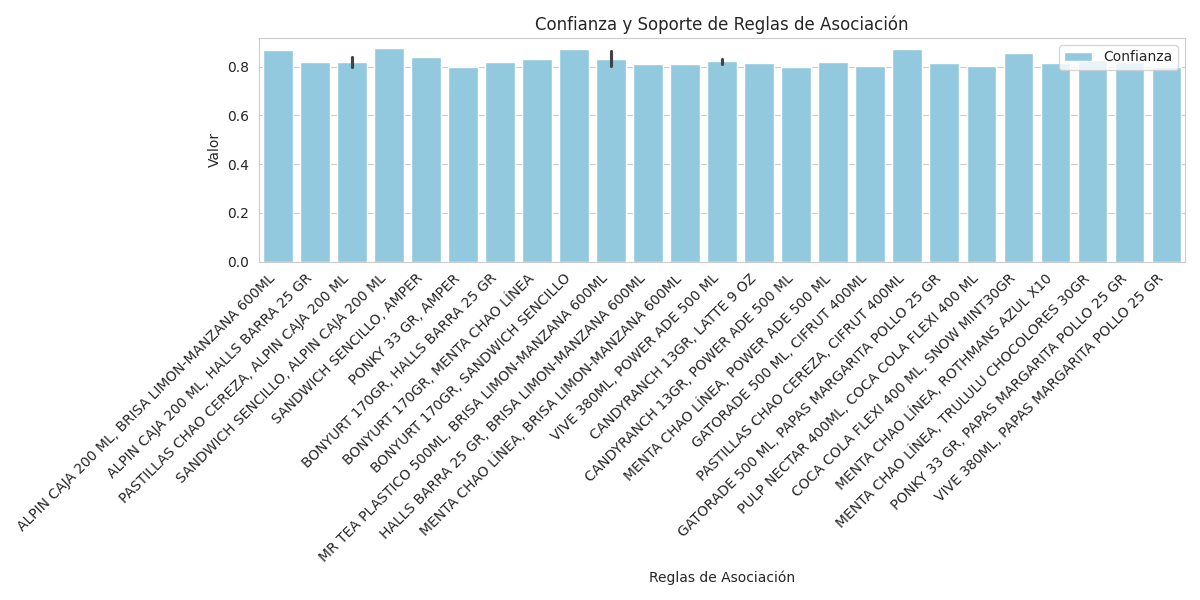
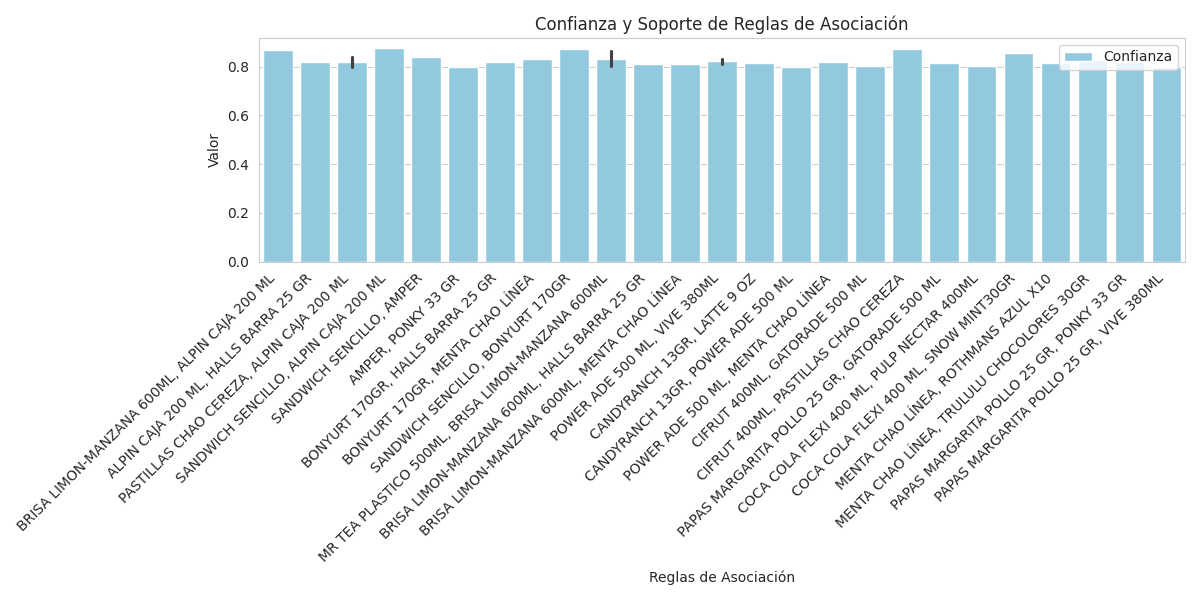
uncomment parser_data

diff --git a/main.py b/main.py
@@ -3,7 +3,7 @@ from utils.asociation_rules import execute_association_rules
 def main() -> None:
     parser = Parser()
     
-    #parser.parse_data() #Uncomment if you want to read de .dbf again.
+    parser.parse_data() #Uncomment if you want to read de .dbf again.
     bill_list, df = parser.to_model()
     parser.show_general_info(df, bill_list)
     execute_association_rules(bill_list)

diff --git a/REPORT.md b/REPORT.md
@@ -56,33 +56,33 @@ The total taxes on friday was: 25,042,875.66
 * ALPIN BOTELLA 300ML -> EMPANADAS
 ![Apriori K = 1 Threshold 0.1 ](images/apriori_k1_0.1.png)
 ### K > 1
-* ALPIN CAJA 200 ML, BRISA LIMON-MANZANA 600ML -> PASTELES. PALITOS, EMPANADAS
+* BRISA LIMON-MANZANA 600ML, ALPIN CAJA 200 ML -> PASTELES. PALITOS, EMPANADAS
 * ALPIN CAJA 200 ML, HALLS BARRA 25 GR -> PASTELES. PALITOS, EMPANADAS
-* PASTILLAS CHAO CEREZA, ALPIN CAJA 200 ML -> JUGO HIT 500 ML, EMPANADAS
+* PASTILLAS CHAO CEREZA, ALPIN CAJA 200 ML -> EMPANADAS, JUGO HIT 500 ML
 * PASTILLAS CHAO CEREZA, ALPIN CAJA 200 ML -> PASTELES. PALITOS, EMPANADAS
 * SANDWICH SENCILLO, ALPIN CAJA 200 ML -> PASTELES. PALITOS, EMPANADAS
 ![Apriori K > 1 Threshold 0.1 ](images/apriori_k_g_1_0.1.png)
-### Time elapsed apriori_execution: 1.72 seconds.
+### Time elapsed apriori_execution: 1.55 seconds.
 |    | antecedents                                                                | consequents                    |   antecedent support |   consequent support |   support |   confidence |    lift |   leverage |   conviction |   zhangs_metric |
 |---:|:---------------------------------------------------------------------------|:-------------------------------|---------------------:|---------------------:|----------:|-------------:|--------:|-----------:|-------------:|----------------:|
 |  0 | frozenset({'PASTILLAS CHAO CEREZA'})                                       | frozenset({'EMPANADAS'})       |               0.4    |               0.6075 |    0.3275 |     0.81875  | 1.34774 |  0.0845    |      2.16552 |        0.430025 |
-|  1 | frozenset({'JUGO HIT 500 ML', 'PASTILLAS CHAO CEREZA'})                    | frozenset({'EMPANADAS'})       |               0.2775 |               0.6075 |    0.25   |     0.900901 | 1.48296 |  0.0814187 |      3.96068 |        0.450761 |
+|  1 | frozenset({'PASTILLAS CHAO CEREZA', 'JUGO HIT 500 ML'})                    | frozenset({'EMPANADAS'})       |               0.2775 |               0.6075 |    0.25   |     0.900901 | 1.48296 |  0.0814187 |      3.96068 |        0.450761 |
 |  2 | frozenset({'CANDYRANCH 13GR', 'PASTILLAS CHAO CEREZA'})                    | frozenset({'EMPANADAS'})       |               0.2525 |               0.6075 |    0.22   |     0.871287 | 1.43422 |  0.0666062 |      3.04942 |        0.405024 |
-|  3 | frozenset({'JUGO HIT 500 ML', 'PASTILLAS CHAO CEREZA', 'CANDYRANCH 13GR'}) | frozenset({'EMPANADAS'})       |               0.1975 |               0.6075 |    0.18   |     0.911392 | 1.50023 |  0.0600187 |      4.42964 |        0.415498 |
-|  4 | frozenset({'PASTILLAS CHAO CEREZA', 'CANDYRANCH 13GR', 'EMPANADAS'})       | frozenset({'JUGO HIT 500 ML'}) |               0.22   |               0.4725 |    0.18   |     0.818182 | 1.7316  |  0.07605   |      2.90125 |        0.541667 |
+|  3 | frozenset({'CANDYRANCH 13GR', 'EMPANADAS', 'PASTILLAS CHAO CEREZA'})       | frozenset({'JUGO HIT 500 ML'}) |               0.22   |               0.4725 |    0.18   |     0.818182 | 1.7316  |  0.07605   |      2.90125 |        0.541667 |
+|  4 | frozenset({'CANDYRANCH 13GR', 'PASTILLAS CHAO CEREZA', 'JUGO HIT 500 ML'}) | frozenset({'EMPANADAS'})       |               0.1975 |               0.6075 |    0.18   |     0.911392 | 1.50023 |  0.0600187 |      4.42964 |        0.415498 |
 ### K = 1
 * PASTILLAS CHAO CEREZA -> EMPANADAS
-* JUGO HIT 500 ML -> EMPANADAS
+* PASTILLAS CHAO CEREZA -> EMPANADAS
 * CANDYRANCH 13GR -> EMPANADAS
 ![Apriori K = 1 Threshold 0.1 ](images/fp_growth_k1_0.1.png)
 ### K > 1
-* CANDYRANCH 13GR, TRIDENT 10 GR, COCA COLA FLEXI 400 ML, PASTILLAS CHAO CEREZA -> JUGO HIT 500 ML, EMPANADAS
-* PASTILLAS CHAO CEREZA, PASTELES. PALITOS, COCA COLA FLEXI 400 ML -> JUGO HIT 500 ML, EMPANADAS
-* CANDYRANCH 13GR, PASTILLAS CHAO CEREZA, PASTELES. PALITOS -> JUGO HIT 500 ML, EMPANADAS
-* CANDYRANCH 13GR, PASTILLAS CHAO CEREZA, PASTELES. PALITOS, COCA COLA FLEXI 400 ML -> JUGO HIT 500 ML, EMPANADAS
-* PASTILLAS CHAO CEREZA, PONKY 33 GR, COCA COLA FLEXI 400 ML -> JUGO HIT 500 ML, EMPANADAS
+* CANDYRANCH 13GR, TRIDENT 10 GR, PASTILLAS CHAO CEREZA, COCA COLA FLEXI 400 ML -> EMPANADAS, JUGO HIT 500 ML
+* COCA COLA FLEXI 400 ML, PASTELES. PALITOS, PASTILLAS CHAO CEREZA -> EMPANADAS, JUGO HIT 500 ML
+* CANDYRANCH 13GR, PASTELES. PALITOS, PASTILLAS CHAO CEREZA -> EMPANADAS, JUGO HIT 500 ML
+* CANDYRANCH 13GR, COCA COLA FLEXI 400 ML, PASTELES. PALITOS, PASTILLAS CHAO CEREZA -> EMPANADAS, JUGO HIT 500 ML
+* COCA COLA FLEXI 400 ML, PASTILLAS CHAO CEREZA, PONKY 33 GR -> EMPANADAS, JUGO HIT 500 ML
 ![Apriori K > 1 Threshold 0.1 ](images/fp_growth_k_g_1_0.1.png)
-### Time elapsed fp_growth_execution: 1.86 seconds.
+### Time elapsed fp_growth_execution: 1.64 seconds.
 ## Threshold: 0.2
 |    | antecedents                              | consequents              |   antecedent support |   consequent support |   support |   confidence |    lift |   leverage |   conviction |   zhangs_metric |
 |---:|:-----------------------------------------|:-------------------------|---------------------:|---------------------:|----------:|-------------:|--------:|-----------:|-------------:|----------------:|
@@ -99,23 +99,23 @@ The total taxes on friday was: 25,042,875.66
 ### K > 1
 **No results for K greater than 1.**
 ![Apriori K > 1 Threshold 0.2 ](images/apriori_k_g_1_0.2.png)
-### Time elapsed apriori_execution: 0.93 seconds.
+### Time elapsed apriori_execution: 0.89 seconds.
 |    | antecedents                                                    | consequents                    |   antecedent support |   consequent support |   support |   confidence |    lift |   leverage |   conviction |   zhangs_metric |
 |---:|:---------------------------------------------------------------|:-------------------------------|---------------------:|---------------------:|----------:|-------------:|--------:|-----------:|-------------:|----------------:|
 |  0 | frozenset({'PASTILLAS CHAO CEREZA'})                           | frozenset({'EMPANADAS'})       |               0.4    |               0.6075 |    0.3275 |     0.81875  | 1.34774 |  0.0845    |      2.16552 |        0.430025 |
-|  1 | frozenset({'JUGO HIT 500 ML', 'PASTILLAS CHAO CEREZA'})        | frozenset({'EMPANADAS'})       |               0.2775 |               0.6075 |    0.25   |     0.900901 | 1.48296 |  0.0814187 |      3.96068 |        0.450761 |
+|  1 | frozenset({'PASTILLAS CHAO CEREZA', 'JUGO HIT 500 ML'})        | frozenset({'EMPANADAS'})       |               0.2775 |               0.6075 |    0.25   |     0.900901 | 1.48296 |  0.0814187 |      3.96068 |        0.450761 |
 |  2 | frozenset({'CANDYRANCH 13GR', 'PASTILLAS CHAO CEREZA'})        | frozenset({'EMPANADAS'})       |               0.2525 |               0.6075 |    0.22   |     0.871287 | 1.43422 |  0.0666062 |      3.04942 |        0.405024 |
-|  3 | frozenset({'PASTILLAS CHAO CEREZA', 'COCA COLA FLEXI 400 ML'}) | frozenset({'EMPANADAS'})       |               0.2425 |               0.6075 |    0.2075 |     0.85567  | 1.40851 |  0.0601812 |      2.71946 |        0.382878 |
-|  4 | frozenset({'PASTILLAS CHAO CEREZA', 'COCA COLA FLEXI 400 ML'}) | frozenset({'JUGO HIT 500 ML'}) |               0.2425 |               0.4725 |    0.2    |     0.824742 | 1.74549 |  0.0854188 |      3.00985 |        0.56382  |
+|  3 | frozenset({'COCA COLA FLEXI 400 ML', 'PASTILLAS CHAO CEREZA'}) | frozenset({'EMPANADAS'})       |               0.2425 |               0.6075 |    0.2075 |     0.85567  | 1.40851 |  0.0601812 |      2.71946 |        0.382878 |
+|  4 | frozenset({'COCA COLA FLEXI 400 ML', 'PASTILLAS CHAO CEREZA'}) | frozenset({'JUGO HIT 500 ML'}) |               0.2425 |               0.4725 |    0.2    |     0.824742 | 1.74549 |  0.0854188 |      3.00985 |        0.56382  |
 ### K = 1
 * PASTILLAS CHAO CEREZA -> EMPANADAS
-* JUGO HIT 500 ML -> EMPANADAS
+* PASTILLAS CHAO CEREZA -> EMPANADAS
 * CANDYRANCH 13GR -> EMPANADAS
 ![Apriori K = 1 Threshold 0.2 ](images/fp_growth_k1_0.2.png)
 ### K > 1
 **No results for K greater than 1.**
 ![Apriori K > 1 Threshold 0.2 ](images/fp_growth_k_g_1_0.2.png)
-### Time elapsed fp_growth_execution: 0.96 seconds.
+### Time elapsed fp_growth_execution: 0.95 seconds.
 ## Threshold: 0.25
 |    | antecedents                          | consequents              |   antecedent support |   consequent support |   support |   confidence |    lift |   leverage |   conviction |   zhangs_metric |
 |---:|:-------------------------------------|:-------------------------|---------------------:|---------------------:|----------:|-------------:|--------:|-----------:|-------------:|----------------:|
@@ -132,23 +132,23 @@ The total taxes on friday was: 25,042,875.66
 ### K > 1
 **No results for K greater than 1.**
 ![Apriori K > 1 Threshold 0.25 ](images/apriori_k_g_1_0.25.png)
-### Time elapsed apriori_execution: 0.62 seconds.
+### Time elapsed apriori_execution: 0.57 seconds.
 |    | antecedents                                              | consequents              |   antecedent support |   consequent support |   support |   confidence |    lift |   leverage |   conviction |   zhangs_metric |
 |---:|:---------------------------------------------------------|:-------------------------|---------------------:|---------------------:|----------:|-------------:|--------:|-----------:|-------------:|----------------:|
 |  0 | frozenset({'PASTILLAS CHAO CEREZA'})                     | frozenset({'EMPANADAS'}) |               0.4    |               0.6075 |    0.3275 |     0.81875  | 1.34774 |  0.0845    |      2.16552 |        0.430025 |
-|  1 | frozenset({'JUGO HIT 500 ML', 'PASTILLAS CHAO CEREZA'})  | frozenset({'EMPANADAS'}) |               0.2775 |               0.6075 |    0.25   |     0.900901 | 1.48296 |  0.0814187 |      3.96068 |        0.450761 |
+|  1 | frozenset({'PASTILLAS CHAO CEREZA', 'JUGO HIT 500 ML'})  | frozenset({'EMPANADAS'}) |               0.2775 |               0.6075 |    0.25   |     0.900901 | 1.48296 |  0.0814187 |      3.96068 |        0.450761 |
 |  2 | frozenset({'PONKY 33 GR'})                               | frozenset({'EMPANADAS'}) |               0.3325 |               0.6075 |    0.2825 |     0.849624 | 1.39856 |  0.0805062 |      2.61012 |        0.426933 |
 |  3 | frozenset({'JUGO HIT 500 ML'})                           | frozenset({'EMPANADAS'}) |               0.4725 |               0.6075 |    0.3925 |     0.830688 | 1.36739 |  0.105456  |      2.3182  |        0.509343 |
-|  4 | frozenset({'JUGO HIT 500 ML', 'COCA COLA FLEXI 400 ML'}) | frozenset({'EMPANADAS'}) |               0.3    |               0.6075 |    0.25   |     0.833333 | 1.37174 |  0.06775   |      2.355   |        0.387143 |
+|  4 | frozenset({'COCA COLA FLEXI 400 ML', 'JUGO HIT 500 ML'}) | frozenset({'EMPANADAS'}) |               0.3    |               0.6075 |    0.25   |     0.833333 | 1.37174 |  0.06775   |      2.355   |        0.387143 |
 ### K = 1
 * PASTILLAS CHAO CEREZA -> EMPANADAS
-* JUGO HIT 500 ML -> EMPANADAS
+* PASTILLAS CHAO CEREZA -> EMPANADAS
 * PONKY 33 GR -> EMPANADAS
 ![Apriori K = 1 Threshold 0.25 ](images/fp_growth_k1_0.25.png)
 ### K > 1
 **No results for K greater than 1.**
 ![Apriori K > 1 Threshold 0.25 ](images/fp_growth_k_g_1_0.25.png)
-### Time elapsed fp_growth_execution: 0.63 seconds.
+### Time elapsed fp_growth_execution: 0.60 seconds.
 ## Threshold: 0.3
 |    | antecedents                          | consequents              |   antecedent support |   consequent support |   support |   confidence |    lift |   leverage |   conviction |   zhangs_metric |
 |---:|:-------------------------------------|:-------------------------|---------------------:|---------------------:|----------:|-------------:|--------:|-----------:|-------------:|----------------:|
@@ -164,7 +164,7 @@ The total taxes on friday was: 25,042,875.66
 ### K > 1
 **No results for K greater than 1.**
 ![Apriori K > 1 Threshold 0.3 ](images/apriori_k_g_1_0.3.png)
-### Time elapsed apriori_execution: 0.57 seconds.
+### Time elapsed apriori_execution: 0.58 seconds.
 |    | antecedents                          | consequents              |   antecedent support |   consequent support |   support |   confidence |    lift |   leverage |   conviction |   zhangs_metric |
 |---:|:-------------------------------------|:-------------------------|---------------------:|---------------------:|----------:|-------------:|--------:|-----------:|-------------:|----------------:|
 |  0 | frozenset({'PASTILLAS CHAO CEREZA'}) | frozenset({'EMPANADAS'}) |               0.4    |               0.6075 |    0.3275 |     0.81875  | 1.34774 |   0.0845   |      2.16552 |        0.430025 |
@@ -179,7 +179,7 @@ The total taxes on friday was: 25,042,875.66
 ### K > 1
 **No results for K greater than 1.**
 ![Apriori K > 1 Threshold 0.3 ](images/fp_growth_k_g_1_0.3.png)
-### Time elapsed fp_growth_execution: 0.56 seconds.
+### Time elapsed fp_growth_execution: 0.58 seconds.
 ## Threshold: 0.35
 |    | antecedents                    | consequents              |   antecedent support |   consequent support |   support |   confidence |    lift |   leverage |   conviction |   zhangs_metric |
 |---:|:-------------------------------|:-------------------------|---------------------:|---------------------:|----------:|-------------:|--------:|-----------:|-------------:|----------------:|
@@ -190,7 +190,7 @@ The total taxes on friday was: 25,042,875.66
 ### K > 1
 **No results for K greater than 1.**
 ![Apriori K > 1 Threshold 0.35 ](images/apriori_k_g_1_0.35.png)
-### Time elapsed apriori_execution: 0.47 seconds.
+### Time elapsed apriori_execution: 0.48 seconds.
 |    | antecedents                    | consequents              |   antecedent support |   consequent support |   support |   confidence |    lift |   leverage |   conviction |   zhangs_metric |
 |---:|:-------------------------------|:-------------------------|---------------------:|---------------------:|----------:|-------------:|--------:|-----------:|-------------:|----------------:|
 |  0 | frozenset({'JUGO HIT 500 ML'}) | frozenset({'EMPANADAS'}) |               0.4725 |               0.6075 |    0.3925 |     0.830688 | 1.36739 |   0.105456 |       2.3182 |        0.509343 |
@@ -200,4 +200,4 @@ The total taxes on friday was: 25,042,875.66
 ### K > 1
 **No results for K greater than 1.**
 ![Apriori K > 1 Threshold 0.35 ](images/fp_growth_k_g_1_0.35.png)
-### Time elapsed fp_growth_execution: 0.52 seconds.
+### Time elapsed fp_growth_execution: 0.47 seconds.
